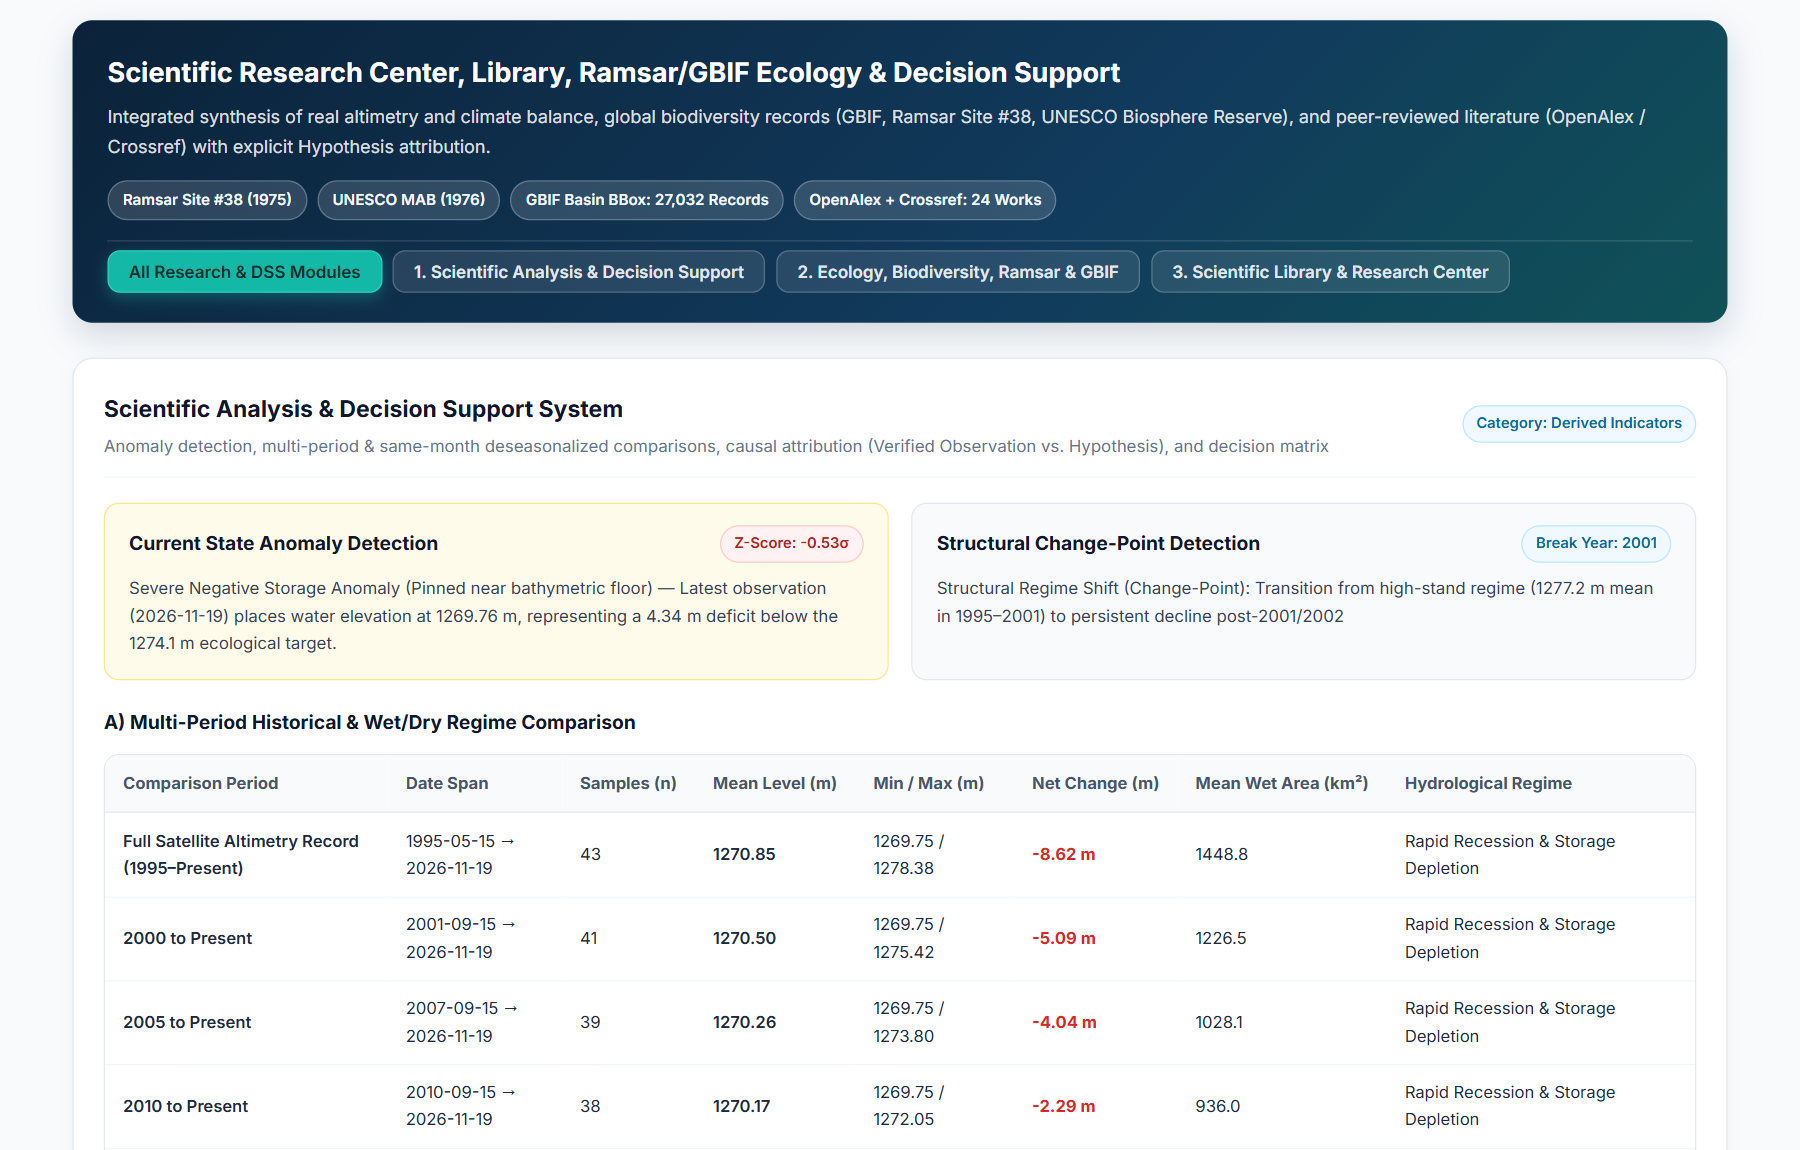
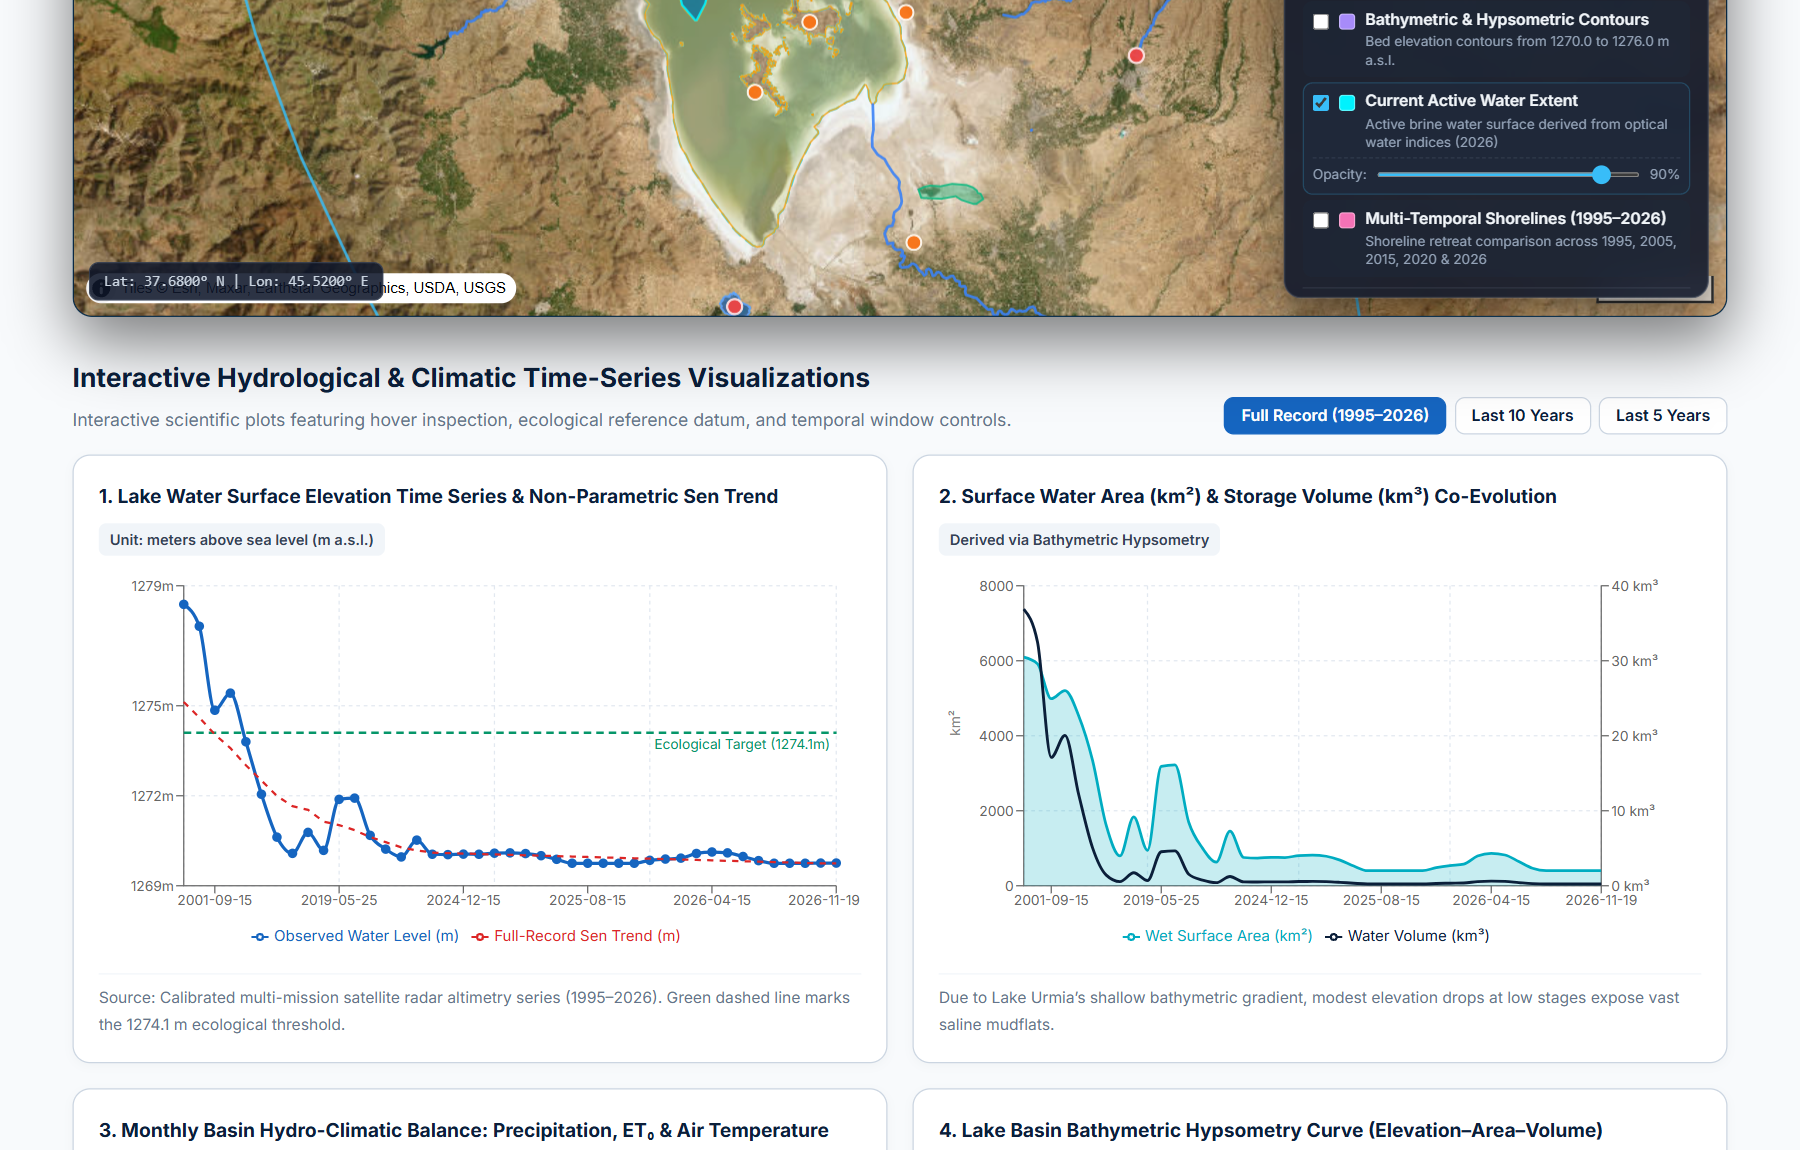
docs: fix README code-block formatting and capture ECharts hydrology screenshot

diff --git a/scripts/capture_readme_screenshots.py b/scripts/capture_readme_screenshots.py
@@ -206,11 +206,11 @@ def main() -> None:
             (
                 "03-hydrology-climate-charts.png",
                 """
-                const charts = Array.from(document.querySelectorAll('canvas')).filter(c => !c.closest('.maplibregl-map'));
+                const charts = Array.from(document.querySelectorAll('canvas')).filter(c => !c.closest('.maplibregl-map') && c.getBoundingClientRect().height > 120); if (charts.length === 0) { window.scrollTo(0, 1750); }
                 if (charts.length > 0) {
-                  const box = charts[0].closest('section, div[class*="chart"], div[class*="grid"]') || charts[0];
-                  const top = box.getBoundingClientRect().top + window.scrollY - 90;
-                  window.scrollTo(0, Math.max(0, top));
+                  const rectTop = charts[0].getBoundingClientRect().top + window.scrollY - 120; window.scrollTo(0, Math.max(1650, rectTop)); const box = null;
+                  if (box) { const top = box.getBoundingClientRect().top + window.scrollY - 90;  }
+                  
                 }
                 """,
                 2.0,
@@ -221,7 +221,7 @@ def main() -> None:
                 const el = document.getElementById('scientific-research-center');
                 if (el) {
                   const top = el.getBoundingClientRect().top + window.scrollY - 16;
-                  window.scrollTo(0, Math.max(0, top));
+                  
                 }
                 """,
                 2.0,
@@ -232,7 +232,7 @@ def main() -> None:
                 const el = document.getElementById('data-management-reports');
                 if (el) {
                   const top = el.getBoundingClientRect().top + window.scrollY - 16;
-                  window.scrollTo(0, Math.max(0, top));
+                  
                 }
                 """,
                 2.0,

diff --git a/README.md b/README.md
@@ -11,36 +11,36 @@
 
 ## Live Public Access (100% Free — Zero Paid Backend)
 
-- **Primary Production URL (Cloudflare Pages Global CDN):** [https://urmia-lake-observatory.pages.dev/](https://urmia-lake-observatory.pages.dev/)
-- **Secondary Mirror (GitHub Pages):** [https://fazeli1977-dot.github.io/Urmia-Lake-Observatory/](https://fazeli1977-dot.github.io/Urmia-Lake-Observatory/)
-- **Source Code Repository:** [https://github.com/fazeli1977-dot/Urmia-Lake-Observatory](https://github.com/fazeli1977-dot/Urmia-Lake-Observatory)
+- **Primary Production URL (Cloudflare Pages Global CDN):** https://urmia-lake-observatory.pages.dev/
+- **Secondary Mirror (GitHub Pages):** https://fazeli1977-dot.github.io/Urmia-Lake-Observatory/
+- **Source Code Repository:** https://github.com/fazeli1977-dot/Urmia-Lake-Observatory
 
 ---
 
 ## Dashboard Visual Showcase
 
 ### 1. Executive Hydrological, Climatic & Ecological KPIs
-Real-time scientific KPI cards displaying satellite radar altimetry elevation, ecological target deficit (`1274.1 m a.s.l.`), hypsometric wet area & volume, ECMWF ERA5 climate balance, salinity/salt-dust risk score, and explicit `Data Unavailable` transparency wherever raw rasters are absent.
+Real-time scientific KPI cards displaying satellite radar altimetry elevation, ecological target deficit (1274.1 m a.s.l.), hypsometric wet area & volume, ECMWF ERA5 climate balance, salinity/salt-dust risk score, and explicit Data Unavailable transparency wherever raw rasters are absent.
 
 ![Executive KPI Dashboard](docs/screenshots/01-overview-kpis.png)
 
 ### 2. Interactive 13-Layer MapLibre GL WebGIS
-Real OpenStreetMap & HydroSHEDS geometries covering the `51,876 km²` watershed basin, sub-basins, major tributary rivers, dams & reservoirs, satellite wetlands, multi-temporal shoreline retreat (`1995–2026`), exposed salt-dust playas, bathymetric contours, opacity controls, and live Copernicus Sentinel-2 STAC catalog integration.
+Real OpenStreetMap & HydroSHEDS geometries covering the 51,876 km² watershed basin, sub-basins, major tributary rivers, dams & reservoirs, satellite wetlands, multi-temporal shoreline retreat (1995–2026), exposed salt-dust playas, bathymetric contours, opacity controls, and live Copernicus Sentinel-2 STAC catalog integration.
 
 ![Interactive 13-Layer WebGIS](docs/screenshots/02-webgis-map.png)
 
 ### 3. Multi-Decadal Time-Series, Hypsometry & Trend Analytics
-Interactive ECharts visualizations for satellite altimetry water levels (`1995–2026`) with Theil-Sen trend line, coupled surface area & volume evolution, ECMWF ERA5 monthly precipitation vs. reference evapotranspiration (`ET0`), physical lakebed hypsometry, and non-parametric Mann-Kendall trend tables.
+Interactive ECharts visualizations for satellite altimetry water levels (1995–2026) with Theil-Sen trend line, coupled surface area & volume evolution, ECMWF ERA5 monthly precipitation vs. reference evapotranspiration (ET0), physical lakebed hypsometry, and non-parametric Mann-Kendall trend tables.
 
 ![Hydrology and Climate Time-Series Charts](docs/screenshots/03-hydrology-climate-charts.png)
 
 ### 4. Scientific Research Center, Ramsar/GBIF Ecology & Decision Support (DSS)
-Multi-period & deseasonalized same-month inter-annual benchmarks, Z-score anomaly & change-point detection, explicit **`Hypothesis`** labeling for unverified causal attributions, live **GBIF** basin biodiversity records (`27,000+` occurrences), **Ramsar Site #38 (1975, Montreux Record)**, **UNESCO MAB Biosphere Reserve (1976)**, and a searchable **OpenAlex / Crossref** peer-reviewed library.
+Multi-period & deseasonalized same-month inter-annual benchmarks, Z-score anomaly & change-point detection, explicit **Hypothesis** labeling for unverified causal attributions, live **GBIF** basin biodiversity records (27,000+ occurrences), **Ramsar Site #38 (1975, Montreux Record)**, **UNESCO MAB Biosphere Reserve (1976)**, and a searchable **OpenAlex / Crossref** peer-reviewed library.
 
 ![Scientific Research Center and Decision Support](docs/screenshots/04-research-center-dss.png)
 
 ### 5. Local 8-Format Data Validation Sandbox & Bilingual PDF Report Generator
-100% client-side security & schema validator (`CSV`, `XLSX`, `JSON`, `GeoJSON`, `Shapefile ZIP`, `GeoTIFF`, `NetCDF`, `PDF`) with Path Traversal & Magic-Byte guards, native multi-format exports (`CSV`, multi-sheet `XLSX`, `JSON`, `GeoJSON`, `PNG`), and print-ready bilingual A4 scientific **PDF** reports (English LTR & Persian RTL).
+100% client-side security & schema validator (CSV, XLSX, JSON, GeoJSON, Shapefile ZIP, GeoTIFF, NetCDF, PDF) with Path Traversal & Magic-Byte guards, native multi-format exports (CSV, multi-sheet XLSX, JSON, GeoJSON, PNG), and print-ready bilingual A4 scientific **PDF** reports (English LTR & Persian RTL).
 
 ![Data Management and Bilingual PDF Reports](docs/screenshots/05-data-management-pdf.png)
 
@@ -48,15 +48,15 @@ Multi-period & deseasonalized same-month inter-annual benchmarks, Z-score anomal
 
 ## Scientific Integrity & Six-Tier Data Provenance
 
-Urmia Lake Observatory enforces a strict **Zero-Fabrication Policy**: no synthetic, placeholder, or simulated values are permitted in operational views. Every indicator carries full provenance metadata (source, URL, observation date, acquisition timestamp, extraction method, unit, resolution, confidence, and limitations) and is classified into six explicit scientific tiers:
+Urmia Lake Observatory enforces a strict **Zero-Fabrication Policy**: no synthetic, placeholder, or simulated values are permitted in operational views. Every indicator carries full provenance metadata and is classified into six explicit scientific tiers:
 
 | Tier | Category | Primary Sources Used in ULO |
 |---|---|---|
 | 1 | **Ground Observations** | GBIF Occurrence API v1, Ramsar Sites Information Service (Site #38), UNESCO MAB Registry |
-| 2 | **Satellite Observations** | Hydroweb / CLMS Calibrated Radar Altimetry (`1995–2026`), Copernicus Sentinel-2 STAC API |
-| 3 | **Model-Based Data** | ECMWF ERA5 Climate Reanalysis (`Precipitation`, `Temperature`, `FAO-56 ET0`) |
-| 4 | **Derived Indicators** | Mann-Kendall Trend Test, Theil-Sen Slope, Z-Score Anomalies, Aridity Ratio (`P/ET0`), Same-Month Benchmarks |
-| 5 | **Indirect Estimates** | Bathymetric Hypsometry (`Area`, `Storage Volume`, `Brine Salinity` with explicit `±12–15%` uncertainty) |
+| 2 | **Satellite Observations** | Hydroweb / CLMS Calibrated Radar Altimetry (1995–2026), Copernicus Sentinel-2 STAC API |
+| 3 | **Model-Based Data** | ECMWF ERA5 Climate Reanalysis (Precipitation, Temperature, FAO-56 ET0) |
+| 4 | **Derived Indicators** | Mann-Kendall Trend Test, Theil-Sen Slope, Z-Score Anomalies, Aridity Ratio (P/ET0), Same-Month Benchmarks |
+| 5 | **Indirect Estimates** | Bathymetric Hypsometry (Area, Storage Volume, Brine Salinity with explicit ±12–15% uncertainty) |
 | 6 | **User-Provided Data** | Locally validated researcher files processed strictly inside the browser (never uploaded to external servers) |
 
 ---
@@ -64,6 +64,8 @@ Urmia Lake Observatory enforces a strict **Zero-Fabrication Policy**: no synthet
 ## Technical Architecture
 
 The frontend visualization layer is strictly decoupled from the Python scientific data-processing engine:
+
+
 ```text
 Urmia-Lake-Observatory/
 ├── web-dashboard/           # React 18, TypeScript, Vite 6, ECharts, MapLibre GL, Local Inter & Vazirmatn fonts
@@ -78,31 +80,57 @@ Urmia-Lake-Observatory/
 ├── data/                    # Raw, reference spatial, processed, archive snapshots & metadata logs
 ├── docs/                    # Architecture, deployment guides & dashboard screenshots
 └── .github/workflows/       # Automated GitHub Pages CI/CD & weekly scheduled data update pipeline
-Automated Pipelines & Quality Assurance
-Automated QA Suite (17/17 PASSED): Covers geospatial topology & basin containment, hypsometric monotonicity, Mann-Kendall & Theil-Sen accuracy, schema completeness, RFC 7946 GeoJSON validation, hardcoded-secret/path security scans, and bilingual typography integrity (QA_REPORT.md).
-Continuous Deployment (.github/workflows/deploy-pages.yml): Runs automated pytest QA verification before building and publishing to GitHub Pages.
-Automated Safe Data Refresh (.github/workflows/data-update-pipeline.yml): Runs scripts/run_automated_data_update.py on a weekly schedule with automatic snapshot archiving (data/archive/) and corruption rollback protection so valid historical data is never lost if an upstream API is temporarily offline.
-Local Development (Windows / Linux / macOS)
-Run the Web Dashboard
-bash
+
+```
+
+---
+
+## Automated Pipelines & Quality Assurance
+
+- **Automated QA Suite (17/17 PASSED):** Covers geospatial topology & basin containment, hypsometric monotonicity, Mann-Kendall & Theil-Sen accuracy, schema completeness, RFC 7946 GeoJSON validation, hardcoded-secret/path security scans, and bilingual typography integrity ([QA_REPORT.md](QA_REPORT.md)).
+- **Continuous Deployment (.github/workflows/deploy-pages.yml):** Runs automated pytest QA verification before building and publishing to GitHub Pages.
+- **Automated Safe Data Refresh (.github/workflows/data-update-pipeline.yml):** Runs scripts/run_automated_data_update.py on a weekly schedule with automatic snapshot archiving (data/archive/) and corruption rollback protection.
+
+---
+
+## Local Development
+
+### Run the Web Dashboard
+
+```bash
 cd web-dashboard
 npm install
 npm run dev
-Run the Python Scientific QA Suite
-bash
+
+```
+
+### Run the Python Scientific QA Suite
+
+```bash
 python -m pytest science-engine/tests -v
-Documentation Index
-DEPLOYMENT.md — Free hosting guide (GitHub Pages & Cloudflare Pages), free subdomain vs. custom domain comparison, and continuity limits
-PROJECT_STATUS.md — Complete Phase 0–10 milestone verification
-QA_REPORT.md — Automated scientific, GIS, and security audit summary
-ARCHITECTURE.md — Modular system design and frontend/backend decoupling
-DATA_SOURCES.md — Verified free open-science APIs, licenses, and coverage
-DATA_DICTIONARY.md — Field schemas, units, and coordinate reference systems
-METHODS.md — Statistical, hydrological, and remote-sensing methodology
-SCIENTIFIC_LIMITATIONS.md — Uncertainty bounds, caveats, and data gaps
-REFERENCES.md — Peer-reviewed scientific bibliography (OpenAlex / Crossref)
-Developer & Creator
-Developer & Creator: Alireza Fazeli Sani (علیرضا فاضلی ثانی)
-Email: alirezafazeli@live.com
-License: MIT License
-Institutional Disclaimer: Urmia Lake Observatory (ULO) is an independent, open-science research and decision-support platform. It claims no official affiliation with, endorsement by, or representation of NASA, ESA, USGS, UNESCO, or the Ramsar Convention Secretariat.
+
+```
+
+---
+
+## Documentation Index
+
+- [DEPLOYMENT.md](DEPLOYMENT.md) — Free hosting guide (GitHub Pages & Cloudflare Pages), free subdomain vs. custom domain comparison, and continuity limits
+- [PROJECT_STATUS.md](PROJECT_STATUS.md) — Complete Phase 0–10 milestone verification
+- [QA_REPORT.md](QA_REPORT.md) — Automated scientific, GIS, and security audit summary
+- [ARCHITECTURE.md](ARCHITECTURE.md) — Modular system design and frontend/backend decoupling
+- [DATA_SOURCES.md](DATA_SOURCES.md) — Verified free open-science APIs, licenses, and coverage
+- [DATA_DICTIONARY.md](DATA_DICTIONARY.md) — Field schemas, units, and coordinate reference systems
+- [METHODS.md](METHODS.md) — Statistical, hydrological, and remote-sensing methodology
+- [SCIENTIFIC_LIMITATIONS.md](SCIENTIFIC_LIMITATIONS.md) — Uncertainty bounds, caveats, and data gaps
+- [REFERENCES.md](REFERENCES.md) — Peer-reviewed scientific bibliography (OpenAlex / Crossref)
+
+---
+
+## Developer & Creator
+
+- **Developer & Creator:** Alireza Fazeli Sani (علیرضا فاضلی ثانی)
+- **Email:** alirezafazeli@live.com
+- **License:** [MIT License](LICENSE)
+
+> **Institutional Disclaimer:** Urmia Lake Observatory (ULO) is an independent, open-science research and decision-support platform. It claims no official affiliation with, endorsement by, or representation of NASA, ESA, USGS, UNESCO, or the Ramsar Convention Secretariat.
